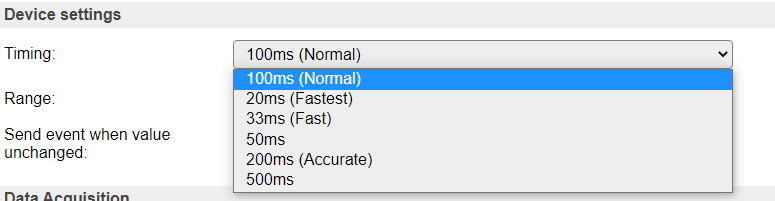
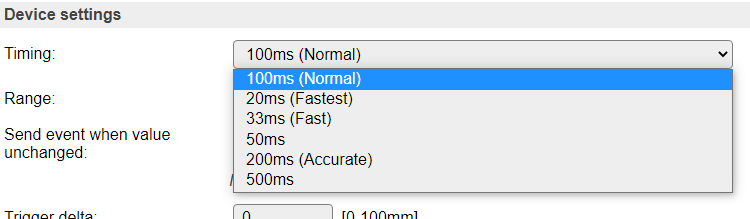
[P113] Add 'Trigger delta' option, updated documentation

diff --git a/docs/source/Plugin/P113.rst b/docs/source/Plugin/P113.rst
@@ -67,22 +67,27 @@ Device Settings
 
 .. image:: P113_RangeOptions.png
 
-*Normal* For measurements in the 0 to 1300 millimeter (130cm) range.
+*Normal (~130cm)* For measurements in the 0 to 1300 millimeter (130cm) range.
 
-*Long* For measurements in the 0 to 4000 millimeter (400cm) range (but somewhat less accurate).
+*Long (~400cm)* For measurements in the 0 to 4000 millimeter (400cm) range (but somewhat less accurate).
 
-**Send event when value unchanged** To avoid many of the same events when the measurement is stable, this option is off by default. When enabled, every measurement will cause an event, and send the data to any enabled Controllers.
+**Send event when value unchanged** To avoid many of the same events when the measurement is stable, this option is off by default. When enabled, every measurement will cause an event, and send the data to any enabled Controller.
+
+**Trigger delta** To avoid triggering many events with only a small difference in distance the 'Trigger delta' option is available. This can be set to only trigger an event when the new distance is at least the delta less or more than the previous measurement.
+
+NB: This setting is ignored if 'Send event when value unchanged' is checked!
+
 
 The Data Acquisition, Send to Controller and Interval settings are standard available configuration items. Send to Controller only when one or more Controllers are configured.
 
-**Interval** By default, Interval will be set to 0, meaning that once a measurement is completed, it will be read. This implies that quite a lot of events will be generated, possibly putting quite some load on the ESP. Setting this to 1 or 2 seconds, usually offers a reasonable response time.
+**Interval** By default, Interval will be set to 60 sec. Setting this to 1 or 2 seconds, usually offers a reasonable response time.
 
 Values
 ^^^^^^
 
 The measured distance is available in ``Distance``. A formula can be set to recalculate, f.e. to centimeters using ``%value%/10``. The number of decimals is by default set to 2, but for use with millimeters distance it can be set to 0, as no decimals are provided from the measurement.
 
-The Ambient ligthing condition during measurement is available in ``Ambient``. The unit is kcps (Photons per second, recalculated to kilo count per second)
+The Ambient lighting condition during measurement is available in ``Ambient``. The unit is kcps (Photons per second, recalculated to kilo count per second)
 
 .. Events
 .. ~~~~~~
@@ -95,6 +100,5 @@ Change log
 ----------
 
 .. versionchanged:: 2.0
-  ...
 
-  |added| 2021-04-05 Added to main repository Plugin 113, based on a copy of Plugin 110 Distance - VL53L0X
+  |added| 2021-04-05 Added to main repository as Plugin 113 Distance - VL53L1X (400cm), based on a copy of Plugin 110 Distance - VL53L0X (200cm)
